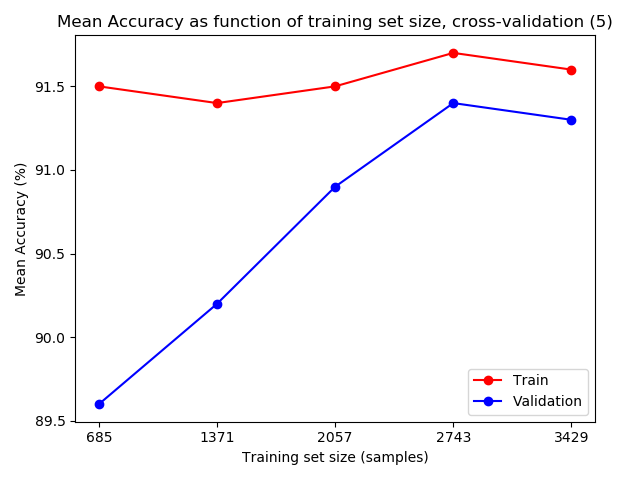
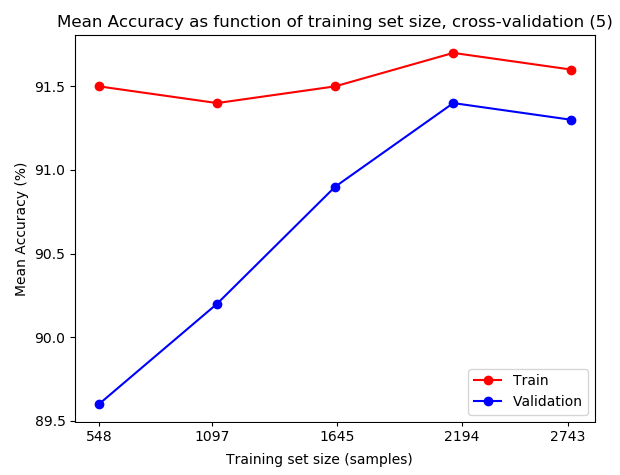
new gr

Changed region(s): [[0.0, 0.0295, 1.0, 1.0], [0.3065, 0.2063, 0.8274, 0.6779], [0.1532, 0.1768, 0.2758, 0.2063]]

diff --git a/SVM_NO_REGULARIZTION.py b/SVM_NO_REGULARIZTION.py
@@ -43,8 +43,8 @@ def with_k_fold(train_data_x, train_data_y):
 
 def witout_k_fold(train_data_x, train_data_y):
     training_set_size = int((4/5)*len(train_data_x))
-    vald_x = train_data_x[training_set_size:, ]
-    vald_y = train_data_y[training_set_size:]
+    vald_x = train_data_x[training_set_size+1:]
+    vald_y = train_data_y[training_set_size+1:]
 
     train_data_x = train_data_x[:training_set_size]
     train_data_y = train_data_y[:training_set_size]
@@ -62,7 +62,6 @@ def witout_k_fold(train_data_x, train_data_y):
         y_hat = clf.predict(vald_x)
         acc_vald.append(np.sum(y_hat == vald_y) / len(vald_y))
 
-        clf.fit(train_data_x[:k], train_data_y[:k])
         y_hat = clf.predict(train_data_x[:k])
         acc_train.append(np.sum(y_hat == train_data_y[:k]) / len(train_data_y[:k]))
         # result = cross_validate(clf, train_data_x, train_data_y, cv=5, scoring='accuracy', return_train_score=True)
